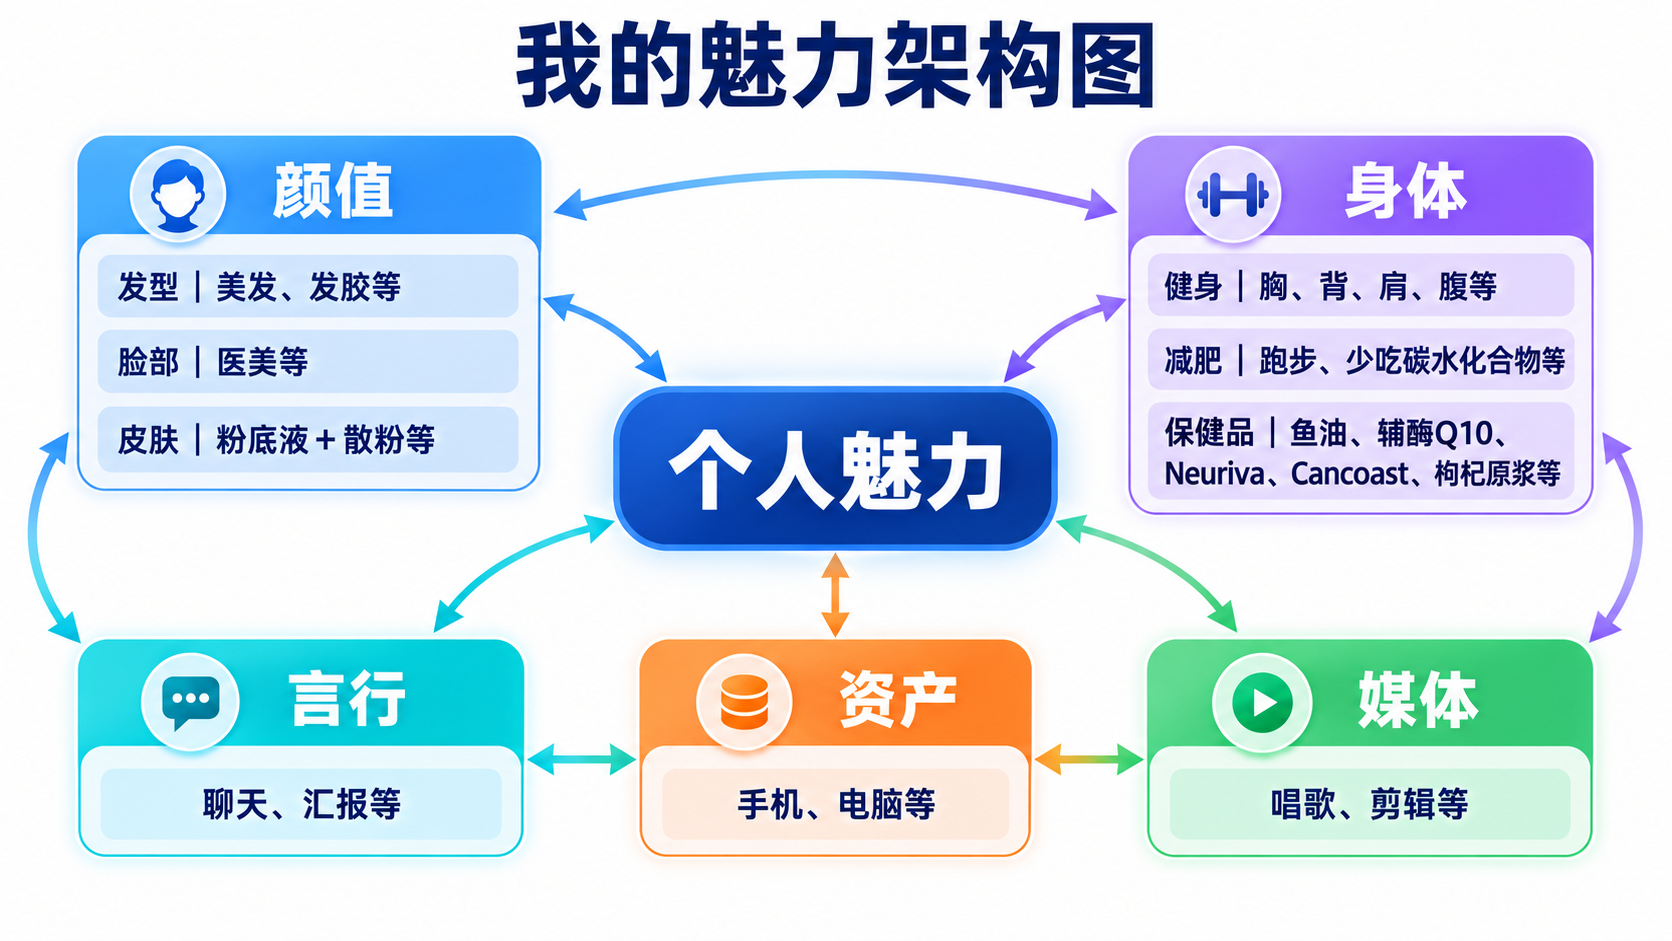
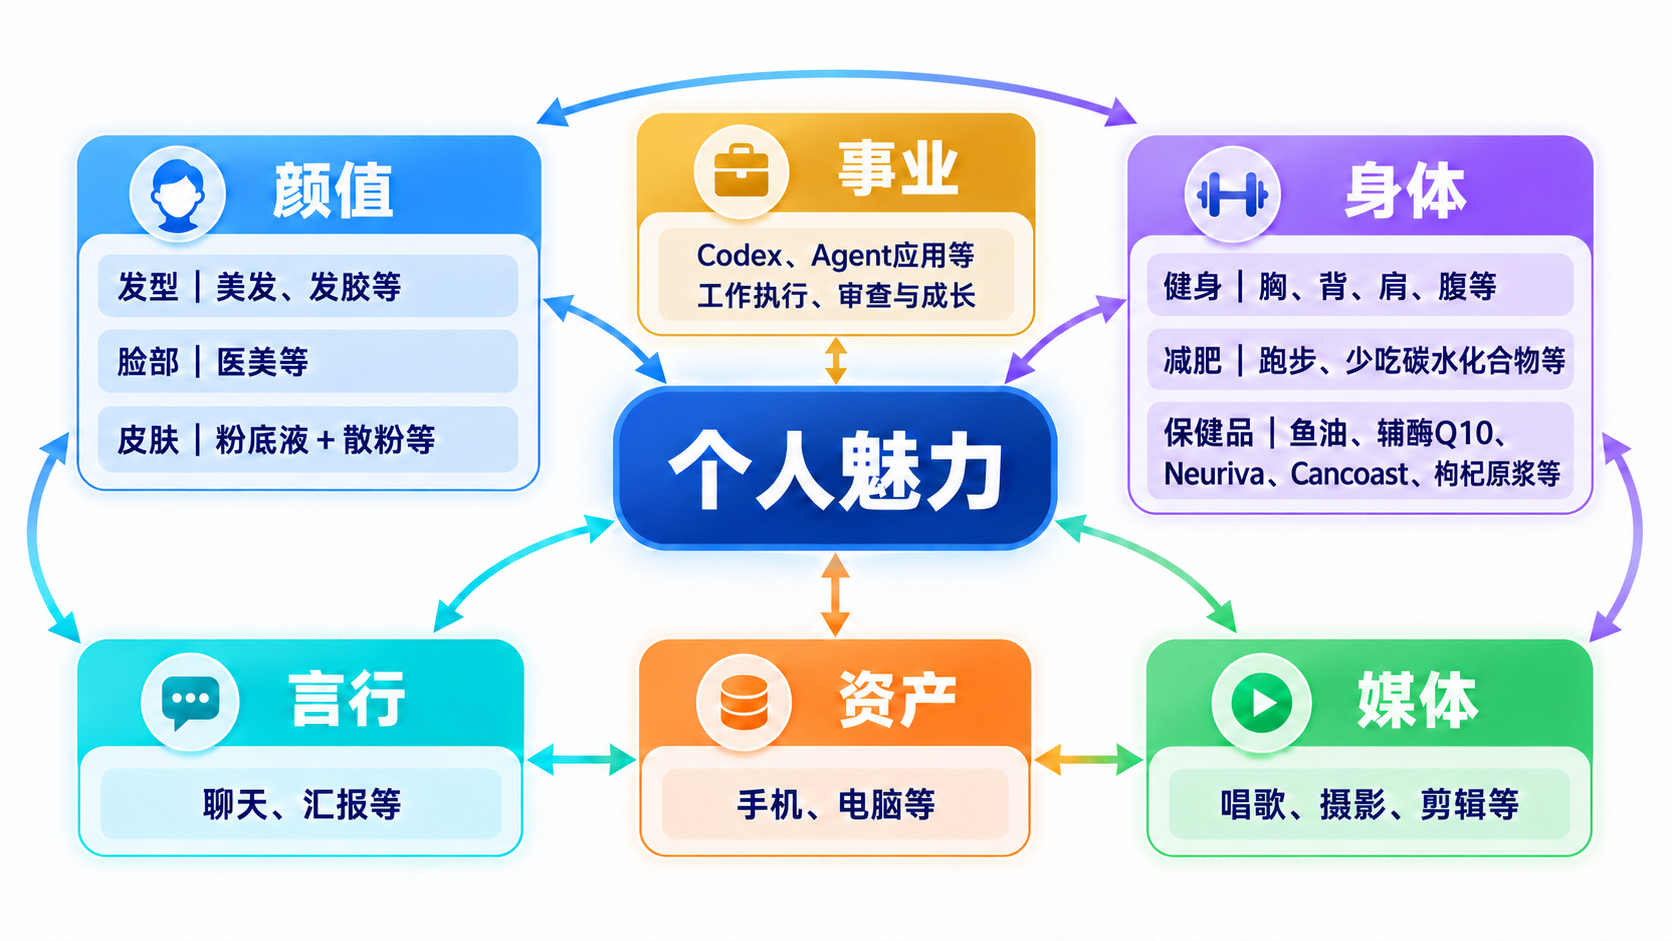
优化内容

diff --git a/productivity/super-assistant/skills/knowledge-operation-center/knowledgebases/操作日志.md b/productivity/super-assistant/skills/knowledge-operation-center/knowledgebases/操作日志.md
@@ -1,8 +1,9 @@
 - [YYYY-MM-DD HH:mm] 动作 | 路径 | 简述
-- [2026-10-01 12:14] 新建 | 1-动态项目/虚拟世界/角色资产管理.md | 按用户要求初始化，仅含图例说明和执行路径两个一级标题
-
-- [2026-10-01 12:27] 更新 | 1-动态项目/虚拟世界/角色资产管理.md | 按用户要求补齐审查状态、来源追溯、标签和创建修改时间，正文保持两个空标题
-- [2026-10-03 01:49] 新建 | 1-动态项目/虚拟世界/assets/短篇创作流程时序图.svg | 对照当前代码绘制短篇团队创作、审批保存与人物状态接续时序图
-- [2026-10-03 01:49] 新建 | 1-动态项目/虚拟世界/assets/剧本创作流程时序图.svg | 对照当前代码绘制剧本团队创作、格式约束、审批保存与人物状态接续时序图
-- [2026-10-03 10:38] 新建 | 1-动态项目/虚拟世界/assets/主智能体运行流程时序图.svg | 对照当前代码绘制三种创作模式共用的模型、工具、技能、素材、子智能体与审批保存流程
-- [2026-10-08 11:57] 更新 | 1-动态项目/小叮当/任务中断与聊天400错误.md | 参照虚拟世界架构笔记补充54项执行路径，记录误判纠正、两次回滚、日志与源码取证、远程查询、实现验证及分支交付。
+- [2026-10-10 16:27] 更新 | 1-动态项目/小叮当/资讯配置投放功能.md | 补充白底推送频次时序图及自动弹窗去重说明
+- [2026-10-12 13:27] 更新 | 1-动态项目/小叮当/资讯配置投放功能.md | 补充功能清单上报时机、后台读取与客户端按钮跳转白底时序图
+- [2026-10-12 15:51] 新建 | 1-动态项目/小叮当/assets/资讯中心定向推送策略时序图.svg | 新增白底定向推送策略时序图
+- [2026-10-12 15:51] 更新 | 1-动态项目/小叮当/资讯配置投放功能.md | 嵌入定向推送时序图，补充并集筛选与领取规则
+- [2026-10-13 11:44] 更新 | 1-动态项目/小叮当/资讯配置投放功能.md | 补充参与状态与普通按钮点击量的时序图及累计口径
+- [2026-10-13 13:36] 新建 | 1-动态项目/小叮当/assets/资讯中心互动统计时序图.svg | 将参与状态与按钮点击量时序图导出为白底 SVG
+- [2026-10-13 13:36] 更新 | 1-动态项目/小叮当/资讯配置投放功能.md | 将内嵌统计时序图改为 assets 附件引用
+- [2026-10-13 20:53] 更新 | 1-动态项目/小叮当/资讯配置投放功能.md | 补齐资讯配置投放功能完整执行路径、工具、问题排查、验证和预发部署记录

diff --git a/productivity/super-assistant/skills/knowledge-operation-center/knowledgebases/1-动态项目/小叮当/修复PPT组件库缺少包文件.md b/productivity/super-assistant/skills/knowledge-operation-center/knowledgebases/1-动态项目/小叮当/修复PPT组件库缺少包文件.md
@@ -14,7 +14,7 @@ tags:
 创建时间: 2026-09-23T21:51
 修改时间: 2026-09-23T22:23
 ---
-# 问题根因与解决思路
+# 图例说明
 
 ```mermaid
 sequenceDiagram
@@ -55,7 +55,7 @@ sequenceDiagram
     Note over WP,RP: 线上生产最终回归仍需：<br/>将修复部署到外场生产 Runner 后再次生成 PPT
 ```
 
-# 详细执行路径
+# 执行路径
 
 1. **接收反馈并界定任务范围（成功）。** 阅读用户截图，但只把截图内容作为故障现象，不把截图中的回复或建议当作用户指令。确认目标应用是 JoyDesk 仓库中的 `apps/desk-web`，线上入口是 `https://joydesk.jdcloud.com/app/`，用户要求基于最新 `feature/202609` 建修复分支、完成本地验证，并在交付时让主工作区能直接检查代码。
 
